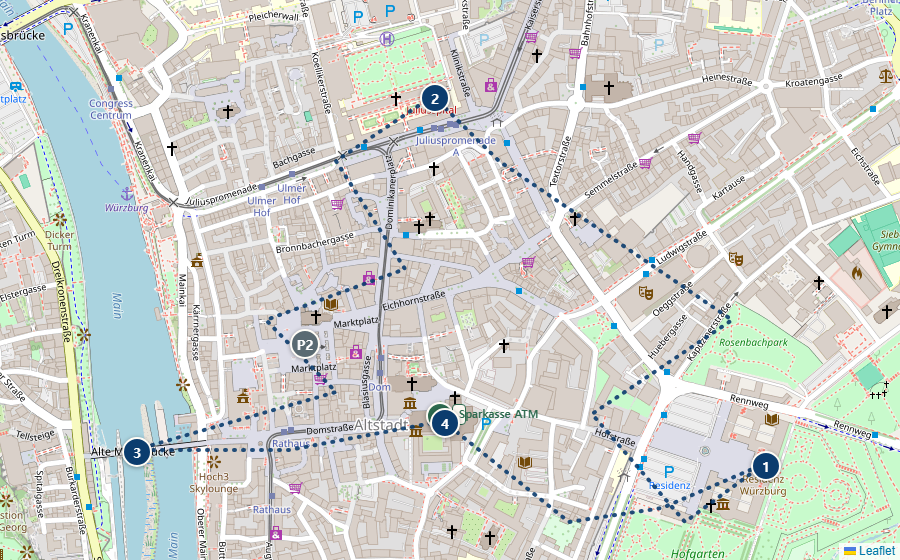
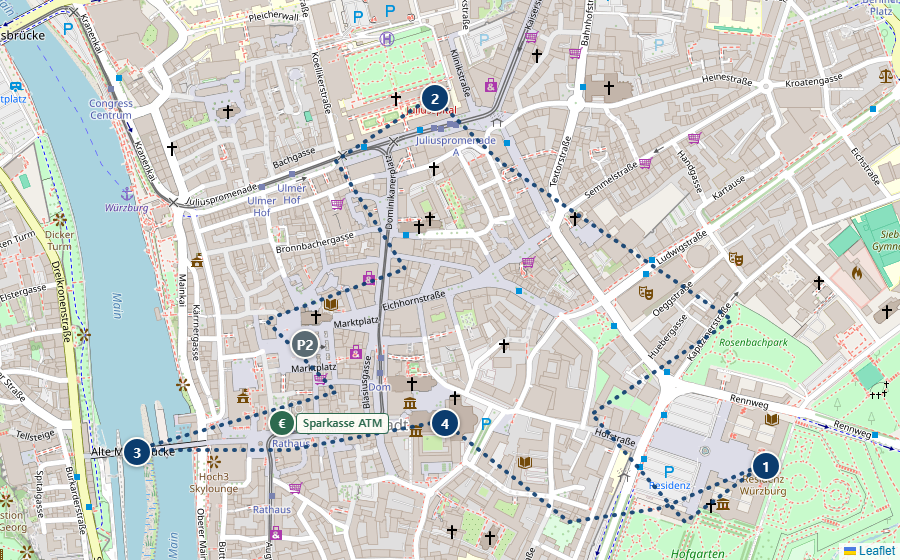
지도 라벨 잘림 버그 근본 수정(노이슈반슈타인·뷔르츠부르크·퓌센), 검색결과 안내 문구 전체 삭제
- L.divIcon iconSize:[0,0] 라벨 방식이 텍스트를 잘라내는 버그를 확인 — 노이슈반슈타인/호엔슈방가우
  지도의 모든 텍스트 라벨(주차장·알프제·성·매표소·셔틀버스·마차·ATM)과 뷔르츠부르크 ATM 라벨을
  지도 준비 후 화면 픽셀 좌표에 직접 얹는 안전한 방식으로 교체
- 뷔르츠부르크: 대성당(4번) 핀과 ATM 핀이 거의 같은 좌표라 겹쳐 보이던 문제를 실제 주소
  좌표로 재배치해 해결, 관련 텍스트 줄바꿈 정리
- 퓌센 구시가 지도에 ATM(Sparkasse Allgäu) 위치 추가
- "실제로 확인되는 곳은 없습니다/N곳입니다" 류의 검색결과 안내 문구를 오버아머가우·에탈·
  티티제·프라이부르크 숙소 인근 등 전체에서 삭제 — 정보가 없으면 항목 자체를 생략

Changed region(s): [[0.28, 0.7286, 0.4356, 0.7893], [0.4667, 0.6982, 0.5911, 0.7589]]

diff --git a/germany-roadtrip-planner.html b/germany-roadtrip-planner.html
@@ -1013,12 +1013,12 @@ document.addEventListener('DOMContentLoaded', function(){
       <div class="sight-list">
         <h4>가볼 만한 곳</h4>
       <p class="city-label">뷔르츠부르크</p>
-      <p class="walk-map-note">🚗 숙소(위팅엔)→레지덴츠 약 18km·22분 · <a href="https://www.google.com/maps/dir/?api=1&travelmode=driving&origin=49.7941,9.7296&destination=49.7928,9.9392" target="_blank" rel="noopener">Google 지도로 길찾기</a><br>🅿 레지덴츠 정문 앞 거리 주차(시간당 €1.70→€1.20, 1일 최대 €11) · 주차 후 도보 약 1분 · 여행자 리뷰 좋음("레지덴츠 방문엔 최고의 자리") — 행사로 만차 시 대안: <a href="https://www.google.com/maps/search/?api=1&query=Marktgarage+Wuerzburg" target="_blank" rel="noopener">Marktgarage</a>(마르크트광장 지하, 레지덴츠까지 도보 약 8~10분, 요금은 다소 높고 폭 좁음)</p>
+      <p class="walk-map-note">🚗 숙소(위팅엔)→레지덴츠 약 18km·22분 · <a href="https://www.google.com/maps/dir/?api=1&travelmode=driving&origin=49.7941,9.7296&destination=49.7928,9.9392" target="_blank" rel="noopener">Google 지도로 길찾기</a><br>🅿 레지덴츠 정문 앞 거리 주차(시간당 €1.70→€1.20, 1일 최대 €11) · 주차 후 도보 약 1분 · 여행자 리뷰 좋음("레지덴츠 방문엔 최고의 자리")<br>🅿 행사로 만차 시 대안: <a href="https://www.google.com/maps/search/?api=1&query=Marktgarage+Wuerzburg" target="_blank" rel="noopener">P2 Marktgarage</a>(마르크트광장 지하, 레지덴츠까지 도보 약 8~10분, 요금은 다소 높고 폭 좁음)</p>
       <p class="walk-map-note">지도별 추천 코스 — 뷔르츠부르크: 레지덴츠 궁전 → 알테 마인교</p>
       <a class="walk-map-link" href="https://www.google.com/maps/dir/?api=1&travelmode=walking&origin=49.7928,9.9392&destination=49.7928,9.9392&waypoints=49.7979,9.9321%7C49.7930,9.9257%7C49.7934,9.9323" target="_blank" rel="noopener">📍 Google 지도로 도보 코스 보기 · 총 약 3.6km · 도보 약 48분</a>
       <div class="route-snapshot">
         <div class="route-snapshot-media">
-          <img src="images/routes/wurzburg.png?v=6" alt="뷔르츠부르크 도보 코스 지도 스냅샷 — 대성당·Sparkasse ATM·만차 시 대안 주차장(P2 Marktgarage) 위치 포함" loading="lazy" width="900" height="560">
+          <img src="images/routes/wurzburg.png?v=7" alt="뷔르츠부르크 도보 코스 지도 스냅샷 — 대성당·Sparkasse ATM·만차 시 대안 주차장(P2 Marktgarage) 위치 포함" loading="lazy" width="900" height="560">
         </div>
         <ol class="route-steps">
         <li><span class="rs-name">레지덴츠 궁전(Residenz)</span></li>
@@ -2358,7 +2358,7 @@ document.addEventListener('DOMContentLoaded', function(){
       <a class="walk-map-link" href="https://www.google.com/maps/dir/?api=1&travelmode=walking&origin=47.5543,10.7360&destination=47.5550,10.7494&waypoints=47.5576,10.7497" target="_blank" rel="noopener">📍 Google 지도로 도보 코스 보기(링크는 편도만 표시, 왕복은 같은 길로 되짚기) · 총 약 4.7km · 도보 약 1시간 31분(오르막 40분+12분, 내리막 약 35분+알프제 4분)</a>
       <div class="route-snapshot">
         <div class="route-snapshot-media">
-          <img src="images/routes/neuschwanstein.png?v=10" alt="노이슈반슈타인 성 도보 코스 지도 스냅샷 — 매표소·셔틀버스 승하차장·마차 승차장·호엔슈방가우 성·알프제·Sparkasse ATM 위치 표시" loading="lazy" width="1000" height="600">
+          <img src="images/routes/neuschwanstein.png?v=11" alt="노이슈반슈타인 성 도보 코스 지도 스냅샷 — 매표소·셔틀버스 승하차장·마차 승차장·호엔슈방가우 성·알프제·Sparkasse ATM 위치 표시" loading="lazy" width="1000" height="600">
         </div>
         <ol class="route-steps">
         <li class="rs-p"><span class="rs-name">주차장(P1~P4)</span></li>
@@ -2584,7 +2584,6 @@ document.addEventListener('DOMContentLoaded', function(){
       </div>
       <div class="sight-list">
       <h4>디저트 &amp; 카페 (오버아머가우)</h4>
-      <p style="font-size:0.78rem;color:var(--ink-soft);margin:0 0 0.3rem;">작은 마을이라 실제로 확인되는 디저트 전문점은 아래 2곳입니다.</p>
       <div class="food-grid">
         <div class="food-card">
           <h5>Eiscafé Paradiso</h5>
@@ -2624,7 +2623,6 @@ document.addEventListener('DOMContentLoaded', function(){
       </div>
       <div class="sight-list">
       <h4>맛집 (에탈)</h4>
-      <p style="font-size:0.78rem;color:var(--ink-soft);margin:0 0 0.3rem;">작은 수도원 마을이라 실제로 확인되는 식당은 아래 3곳입니다(억지로 채우지 않았습니다).</p>
       <div class="food-grid">
         <div class="food-card">
           <h5>Klosterhotel Ettal "Ludwig der Bayer" (Bräustüberl)</h5>
@@ -2642,7 +2640,6 @@ document.addEventListener('DOMContentLoaded', function(){
       </div>
       <div class="sight-list">
       <h4>디저트 &amp; 카페 (에탈)</h4>
-      <p style="font-size:0.78rem;color:var(--ink-soft);margin:0 0 0.3rem;">작은 수도원 마을이라 실제로 확인되는 디저트 전문점은 아래 2곳입니다.</p>
       <div class="food-grid">
         <div class="food-card">
           <h5>Café 1330</h5>
@@ -2833,7 +2830,7 @@ document.addEventListener('DOMContentLoaded', function(){
       <a class="walk-map-link" href="https://www.google.com/maps/dir/?api=1&travelmode=walking&origin=47.568657,10.698583&destination=47.568657,10.698583&waypoints=47.5671,10.6981%7C47.5665,10.6993" target="_blank" rel="noopener">📍 Google 지도로 도보 코스 보기(숙소 출발·도착) · 총 약 630m · 도보 약 9분</a>
       <div class="route-snapshot">
         <div class="route-snapshot-media">
-          <img src="images/routes/fuessen_altstadt.png" alt="퓌센 구시가 도보 코스 지도 스냅샷" loading="lazy" width="900" height="520">
+          <img src="images/routes/fuessen_altstadt.png?v=2" alt="퓌센 구시가 도보 코스 지도 스냅샷 — Sparkasse ATM 위치 포함" loading="lazy" width="900" height="520">
         </div>
         <ol class="route-steps">
         <li class="rs-p"><span class="rs-name">숙소(TREFF APARTMENTS)</span></li>
@@ -3151,11 +3148,9 @@ document.addEventListener('DOMContentLoaded', function(){
           <p class="food-park">🅿 시내 일반 주차장 · <a href="https://www.google.com/maps/search/?api=1&query=Pizzeria+Raffaele+Titisee-Neustadt" target="_blank" rel="noopener">지도</a></p>
         </div>
       </div>
-      <p style="font-size:0.78rem;color:var(--ink-soft);margin:0.5rem 0 0;">한식·일식·멕시칸은 티티제·티티제노이슈타트 일대에서 현재 영업 중이며 리뷰가 검증되는 곳을 찾지 못했습니다 — 확인 결과 없음(작은 호숫가 마을 특성상 예상되는 결과).</p>
       </div>
       <div class="sight-list">
       <h4>디저트 &amp; 카페 (티티제)</h4>
-      <p style="font-size:0.78rem;color:var(--ink-soft);margin:0 0 0.3rem;">작은 호숫가 마을이라 실제로 확인되는 디저트 전문점은 아래 1곳입니다.</p>
       <div class="food-grid">
         <div class="food-card">
           <h5>Café Restaurant Seeblick</h5>
@@ -3227,7 +3222,6 @@ document.addEventListener('DOMContentLoaded', function(){
       </div>
       <div class="sight-list">
       <h4>디저트 &amp; 카페 (귄터슈탈 숙소 인근)</h4>
-      <p style="font-size:0.78rem;color:var(--ink-soft);margin:0 0 0.3rem;">조용한 주택가라 실제로 확인되는 디저트 전문점은 없습니다 — Günter Coffee Roasters가 근처에 있지만 금요일 오후만 매장 오픈이라 참고용입니다. 제대로 된 디저트·카페는 다음날(6일차) 프라이부르크 구시가 목록을 이용하세요.</p>
       <div class="food-grid">
         <div class="food-card">
           <h5>Günter Coffee Roasters</h5>

diff --git a/index.html b/index.html
@@ -1013,12 +1013,12 @@ document.addEventListener('DOMContentLoaded', function(){
       <div class="sight-list">
         <h4>가볼 만한 곳</h4>
       <p class="city-label">뷔르츠부르크</p>
-      <p class="walk-map-note">🚗 숙소(위팅엔)→레지덴츠 약 18km·22분 · <a href="https://www.google.com/maps/dir/?api=1&travelmode=driving&origin=49.7941,9.7296&destination=49.7928,9.9392" target="_blank" rel="noopener">Google 지도로 길찾기</a><br>🅿 레지덴츠 정문 앞 거리 주차(시간당 €1.70→€1.20, 1일 최대 €11) · 주차 후 도보 약 1분 · 여행자 리뷰 좋음("레지덴츠 방문엔 최고의 자리") — 행사로 만차 시 대안: <a href="https://www.google.com/maps/search/?api=1&query=Marktgarage+Wuerzburg" target="_blank" rel="noopener">Marktgarage</a>(마르크트광장 지하, 레지덴츠까지 도보 약 8~10분, 요금은 다소 높고 폭 좁음)</p>
+      <p class="walk-map-note">🚗 숙소(위팅엔)→레지덴츠 약 18km·22분 · <a href="https://www.google.com/maps/dir/?api=1&travelmode=driving&origin=49.7941,9.7296&destination=49.7928,9.9392" target="_blank" rel="noopener">Google 지도로 길찾기</a><br>🅿 레지덴츠 정문 앞 거리 주차(시간당 €1.70→€1.20, 1일 최대 €11) · 주차 후 도보 약 1분 · 여행자 리뷰 좋음("레지덴츠 방문엔 최고의 자리")<br>🅿 행사로 만차 시 대안: <a href="https://www.google.com/maps/search/?api=1&query=Marktgarage+Wuerzburg" target="_blank" rel="noopener">P2 Marktgarage</a>(마르크트광장 지하, 레지덴츠까지 도보 약 8~10분, 요금은 다소 높고 폭 좁음)</p>
       <p class="walk-map-note">지도별 추천 코스 — 뷔르츠부르크: 레지덴츠 궁전 → 알테 마인교</p>
       <a class="walk-map-link" href="https://www.google.com/maps/dir/?api=1&travelmode=walking&origin=49.7928,9.9392&destination=49.7928,9.9392&waypoints=49.7979,9.9321%7C49.7930,9.9257%7C49.7934,9.9323" target="_blank" rel="noopener">📍 Google 지도로 도보 코스 보기 · 총 약 3.6km · 도보 약 48분</a>
       <div class="route-snapshot">
         <div class="route-snapshot-media">
-          <img src="images/routes/wurzburg.png?v=6" alt="뷔르츠부르크 도보 코스 지도 스냅샷 — 대성당·Sparkasse ATM·만차 시 대안 주차장(P2 Marktgarage) 위치 포함" loading="lazy" width="900" height="560">
+          <img src="images/routes/wurzburg.png?v=7" alt="뷔르츠부르크 도보 코스 지도 스냅샷 — 대성당·Sparkasse ATM·만차 시 대안 주차장(P2 Marktgarage) 위치 포함" loading="lazy" width="900" height="560">
         </div>
         <ol class="route-steps">
         <li><span class="rs-name">레지덴츠 궁전(Residenz)</span></li>
@@ -2358,7 +2358,7 @@ document.addEventListener('DOMContentLoaded', function(){
       <a class="walk-map-link" href="https://www.google.com/maps/dir/?api=1&travelmode=walking&origin=47.5543,10.7360&destination=47.5550,10.7494&waypoints=47.5576,10.7497" target="_blank" rel="noopener">📍 Google 지도로 도보 코스 보기(링크는 편도만 표시, 왕복은 같은 길로 되짚기) · 총 약 4.7km · 도보 약 1시간 31분(오르막 40분+12분, 내리막 약 35분+알프제 4분)</a>
       <div class="route-snapshot">
         <div class="route-snapshot-media">
-          <img src="images/routes/neuschwanstein.png?v=10" alt="노이슈반슈타인 성 도보 코스 지도 스냅샷 — 매표소·셔틀버스 승하차장·마차 승차장·호엔슈방가우 성·알프제·Sparkasse ATM 위치 표시" loading="lazy" width="1000" height="600">
+          <img src="images/routes/neuschwanstein.png?v=11" alt="노이슈반슈타인 성 도보 코스 지도 스냅샷 — 매표소·셔틀버스 승하차장·마차 승차장·호엔슈방가우 성·알프제·Sparkasse ATM 위치 표시" loading="lazy" width="1000" height="600">
         </div>
         <ol class="route-steps">
         <li class="rs-p"><span class="rs-name">주차장(P1~P4)</span></li>
@@ -2584,7 +2584,6 @@ document.addEventListener('DOMContentLoaded', function(){
       </div>
       <div class="sight-list">
       <h4>디저트 &amp; 카페 (오버아머가우)</h4>
-      <p style="font-size:0.78rem;color:var(--ink-soft);margin:0 0 0.3rem;">작은 마을이라 실제로 확인되는 디저트 전문점은 아래 2곳입니다.</p>
       <div class="food-grid">
         <div class="food-card">
           <h5>Eiscafé Paradiso</h5>
@@ -2624,7 +2623,6 @@ document.addEventListener('DOMContentLoaded', function(){
       </div>
       <div class="sight-list">
       <h4>맛집 (에탈)</h4>
-      <p style="font-size:0.78rem;color:var(--ink-soft);margin:0 0 0.3rem;">작은 수도원 마을이라 실제로 확인되는 식당은 아래 3곳입니다(억지로 채우지 않았습니다).</p>
       <div class="food-grid">
         <div class="food-card">
           <h5>Klosterhotel Ettal "Ludwig der Bayer" (Bräustüberl)</h5>
@@ -2642,7 +2640,6 @@ document.addEventListener('DOMContentLoaded', function(){
       </div>
       <div class="sight-list">
       <h4>디저트 &amp; 카페 (에탈)</h4>
-      <p style="font-size:0.78rem;color:var(--ink-soft);margin:0 0 0.3rem;">작은 수도원 마을이라 실제로 확인되는 디저트 전문점은 아래 2곳입니다.</p>
       <div class="food-grid">
         <div class="food-card">
           <h5>Café 1330</h5>
@@ -2833,7 +2830,7 @@ document.addEventListener('DOMContentLoaded', function(){
       <a class="walk-map-link" href="https://www.google.com/maps/dir/?api=1&travelmode=walking&origin=47.568657,10.698583&destination=47.568657,10.698583&waypoints=47.5671,10.6981%7C47.5665,10.6993" target="_blank" rel="noopener">📍 Google 지도로 도보 코스 보기(숙소 출발·도착) · 총 약 630m · 도보 약 9분</a>
       <div class="route-snapshot">
         <div class="route-snapshot-media">
-          <img src="images/routes/fuessen_altstadt.png" alt="퓌센 구시가 도보 코스 지도 스냅샷" loading="lazy" width="900" height="520">
+          <img src="images/routes/fuessen_altstadt.png?v=2" alt="퓌센 구시가 도보 코스 지도 스냅샷 — Sparkasse ATM 위치 포함" loading="lazy" width="900" height="520">
         </div>
         <ol class="route-steps">
         <li class="rs-p"><span class="rs-name">숙소(TREFF APARTMENTS)</span></li>
@@ -3151,11 +3148,9 @@ document.addEventListener('DOMContentLoaded', function(){
           <p class="food-park">🅿 시내 일반 주차장 · <a href="https://www.google.com/maps/search/?api=1&query=Pizzeria+Raffaele+Titisee-Neustadt" target="_blank" rel="noopener">지도</a></p>
         </div>
       </div>
-      <p style="font-size:0.78rem;color:var(--ink-soft);margin:0.5rem 0 0;">한식·일식·멕시칸은 티티제·티티제노이슈타트 일대에서 현재 영업 중이며 리뷰가 검증되는 곳을 찾지 못했습니다 — 확인 결과 없음(작은 호숫가 마을 특성상 예상되는 결과).</p>
       </div>
       <div class="sight-list">
       <h4>디저트 &amp; 카페 (티티제)</h4>
-      <p style="font-size:0.78rem;color:var(--ink-soft);margin:0 0 0.3rem;">작은 호숫가 마을이라 실제로 확인되는 디저트 전문점은 아래 1곳입니다.</p>
       <div class="food-grid">
         <div class="food-card">
           <h5>Café Restaurant Seeblick</h5>
@@ -3227,7 +3222,6 @@ document.addEventListener('DOMContentLoaded', function(){
       </div>
       <div class="sight-list">
       <h4>디저트 &amp; 카페 (귄터슈탈 숙소 인근)</h4>
-      <p style="font-size:0.78rem;color:var(--ink-soft);margin:0 0 0.3rem;">조용한 주택가라 실제로 확인되는 디저트 전문점은 없습니다 — Günter Coffee Roasters가 근처에 있지만 금요일 오후만 매장 오픈이라 참고용입니다. 제대로 된 디저트·카페는 다음날(6일차) 프라이부르크 구시가 목록을 이용하세요.</p>
       <div class="food-grid">
         <div class="food-card">
           <h5>Günter Coffee Roasters</h5>
